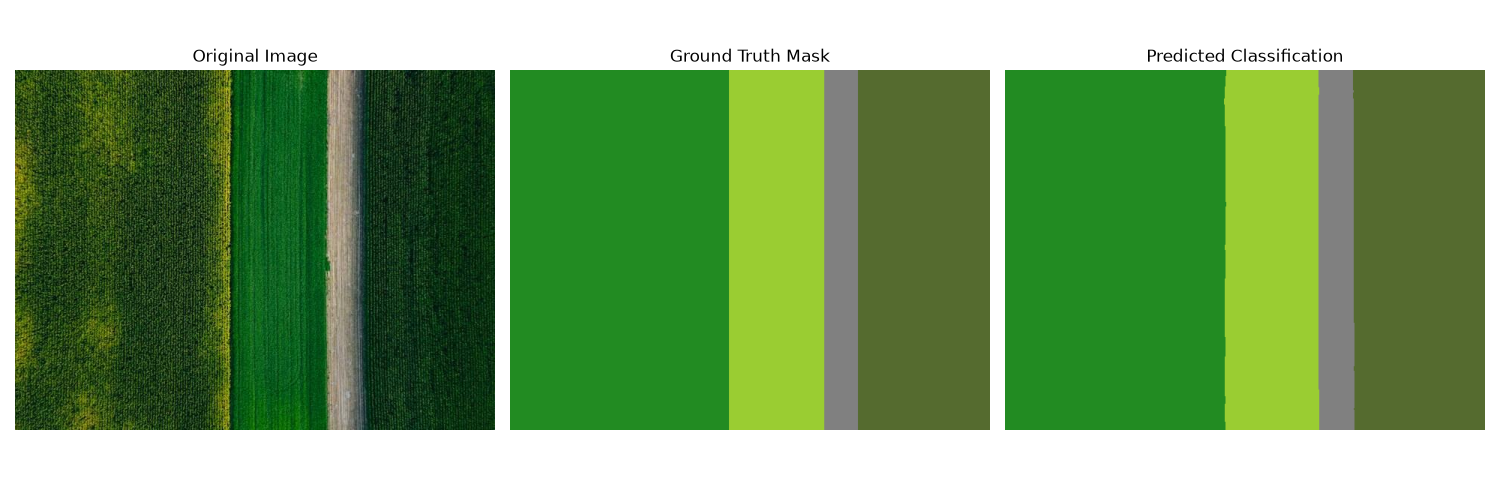
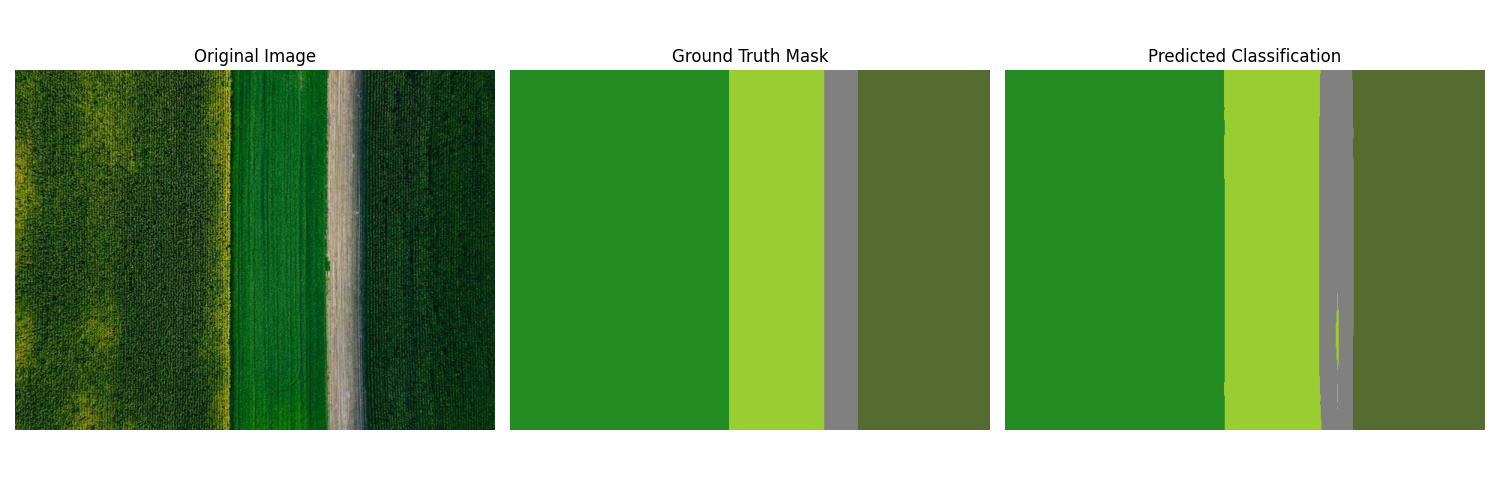
update code

diff --git a/ai_demos/train.py b/ai_demos/train.py
@@ -37,7 +37,10 @@ def main():
     image_patches, mask_patches = extract_patches(image_np, mask_np, PATCH_SIZE, STRIDE)
     print(f"Extracted {len(image_patches)} patches")
 
-    loader = DataLoader(PatchDataset(image_patches, mask_patches), batch_size=4, shuffle=True)
+    loader = DataLoader(PatchDataset(image_patches, mask_patches), batch_size=4, shuffle=True,
+    pin_memory=True  # keep this
+    # num_workers=2 #skip num_workers for now — dataset is tiny and pre-loaded
+    )
 
     model = build_model().to(DEVICE)
     model.train()

diff --git a/ai_demos/predict.py b/ai_demos/predict.py
@@ -9,7 +9,7 @@ def main():
     img_t = img_t.unsqueeze(0).to(DEVICE)
 
     model = build_model(NUM_CLASSES).to(DEVICE)
-    model.load_state_dict(torch.load("model_weights.pth", map_location=DEVICE))
+    model.load_state_dict(torch.load("model_weights_pretrained.pth", map_location=DEVICE))
     model.eval()
 
     with torch.no_grad():
